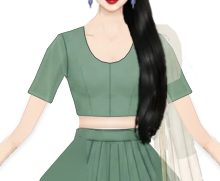
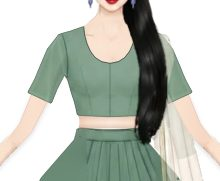
Rework the one-shoulder dupatta repair along the real shoulder
The earlier fill reached above the shoulder and past the sleeve and read as
a flat block. The cloth now follows the shoulder line and the top of the
arm only, slightly sheer with soft folds; the painted strip's straight
edge where the sleeve began is tapered into the fall; and the white fringe
along the cloth's edges is removed.

Claude-Session: https://claude.ai/code/session_01TYPUusnuhtBJ7Z9aDFcSGW

diff --git a/scripts/painted-assets/fix_dupatta_shoulder.py b/scripts/painted-assets/fix_dupatta_shoulder.py
@@ -45,7 +45,7 @@ def largest_piece(mask):
 PATH = 'public/assets/painted/dupatta-one-shoulder.png'
 X0, Y0, W, H = 261.0, 145.0, 228.7, 598.0  # placement in stage units (geometry.ts PAINTED.dupattaOneShoulder)
 # region over the shoulder that the cloth should cover, in stage units
-SHOULDER = [(282, 148), (300, 148), (310, 157), (316, 171), (318, 192), (315, 214), (309, 234), (305, 262), (300, 300), (288, 300), (284, 250), (282, 200)]
+SHOULDER = [(283, 157), (293, 160), (299, 164), (304, 171), (307, 180), (308, 190), (305, 199), (300, 207), (297, 214), (296, 240), (295, 285), (289, 300), (284, 250), (282, 200)]
 
 im = Image.open(PATH).convert('RGBA')
 a = np.asarray(im).astype(float)
@@ -57,6 +57,24 @@ alpha = a[..., 3]
 solid = alpha > 40
 keep = blur(largest_piece(solid).astype(float), 2) > 0
 a[..., 3] = np.where(keep, alpha, 0)
+
+# the white fringe left where the hair (and the sleeve) were cut out of the painting: whitish,
+# see-through pixels along the cloth's edge
+al = a[..., 3]
+lum0 = a[..., :3].mean(-1)
+chroma0 = a[..., :3].max(-1) - a[..., :3].min(-1)
+near_edge = blur((al < 30).astype(float), 3) > 0.02
+fringe = near_edge & (al > 0) & (lum0 > 214) & (chroma0 < 24)
+a[..., 3] = np.where(fringe, 0, al)
+
+# the painted strip widened over the top of the sleeve and stopped in a straight line where the
+# sleeve began; taper it along a diagonal instead, so the cloth narrows smoothly into its fall
+yy0, xx0 = np.mgrid[0:h, 0:w]
+ys0, xs0 = Y0 + yy0 / sy, X0 + xx0 / sx
+taper_x = 309 - (ys0 - 184) * 10 / 42
+taper = (ys0 > 184) & (ys0 < 232) & (xs0 > taper_x)
+soft = np.clip((xs0 - taper_x) / 1.2, 0, 1)
+a[..., 3] = np.where(taper, a[..., 3] * (1 - soft), a[..., 3])
 
 # fill the hole over the shoulder
 poly = Image.new('L', (w, h), 0)
@@ -73,11 +91,13 @@ CREAM = np.array([214.0, 206.0, 190.0])
 yy, xx = np.mgrid[0:h, 0:w]
 ys = Y0 + yy / sy
 xs = X0 + xx / sx
-light = 1.0 + 0.03 * np.clip((200 - ys) / 50, -1, 1) - 0.05 * np.clip((300 - xs) / 18, 0, 1)
+# soft folds running down from the shoulder, as in the painted cloth
+fold = np.exp(-(((xs - 0.25 * (ys - 160)) - 296) / 3.2) ** 2) + 0.7 * np.exp(-(((xs - 0.12 * (ys - 160)) - 302) / 2.6) ** 2)
+light = 1.0 + 0.03 * np.clip((200 - ys) / 50, -1, 1) - 0.05 * np.clip((300 - xs) / 18, 0, 1) - 0.06 * fold
 fill = CREAM[None, None, :] * light[..., None]
 # soften the new edge so it blends with the painted cloth
-edge = blur(region.astype(float), 1)
+edge = blur(blur(region.astype(float), 2), 2)
 a[..., :3] = np.where(hole[..., None], fill, a[..., :3])
-a[..., 3] = np.where(hole, np.maximum(a[..., 3], 225 * np.clip(edge * 1.6, 0, 1)), a[..., 3])
+a[..., 3] = np.where(hole, np.maximum(a[..., 3], 205 * np.clip(edge * 1.4, 0, 1)), a[..., 3])
 Image.fromarray(np.clip(a, 0, 255).astype(np.uint8)).save(PATH)
 print('filled', int(hole.sum()), 'px')
